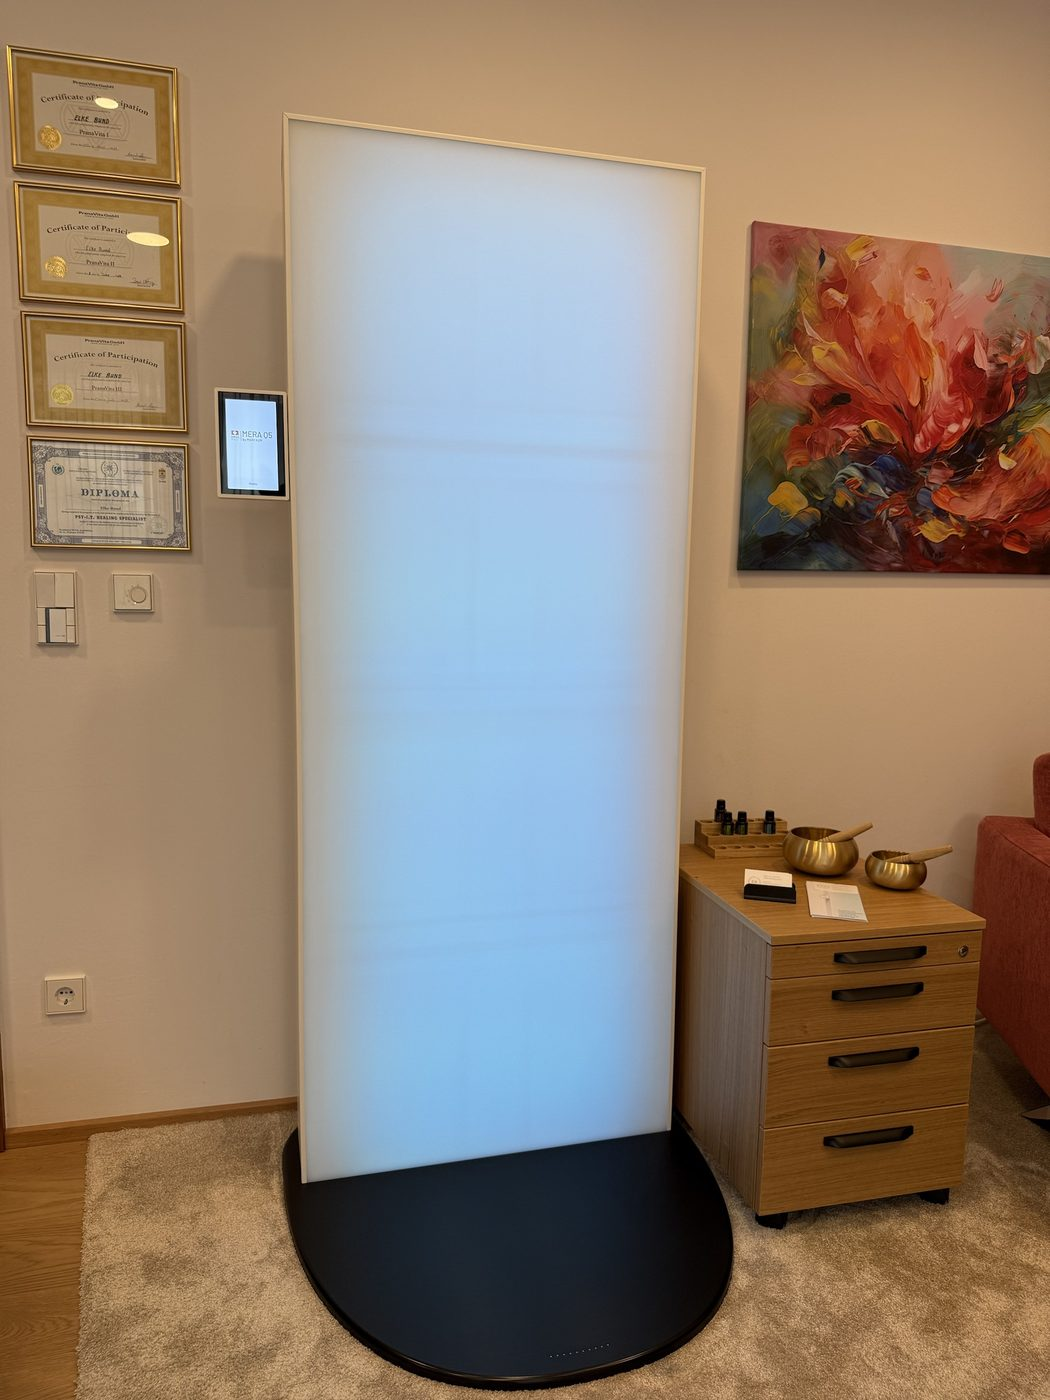
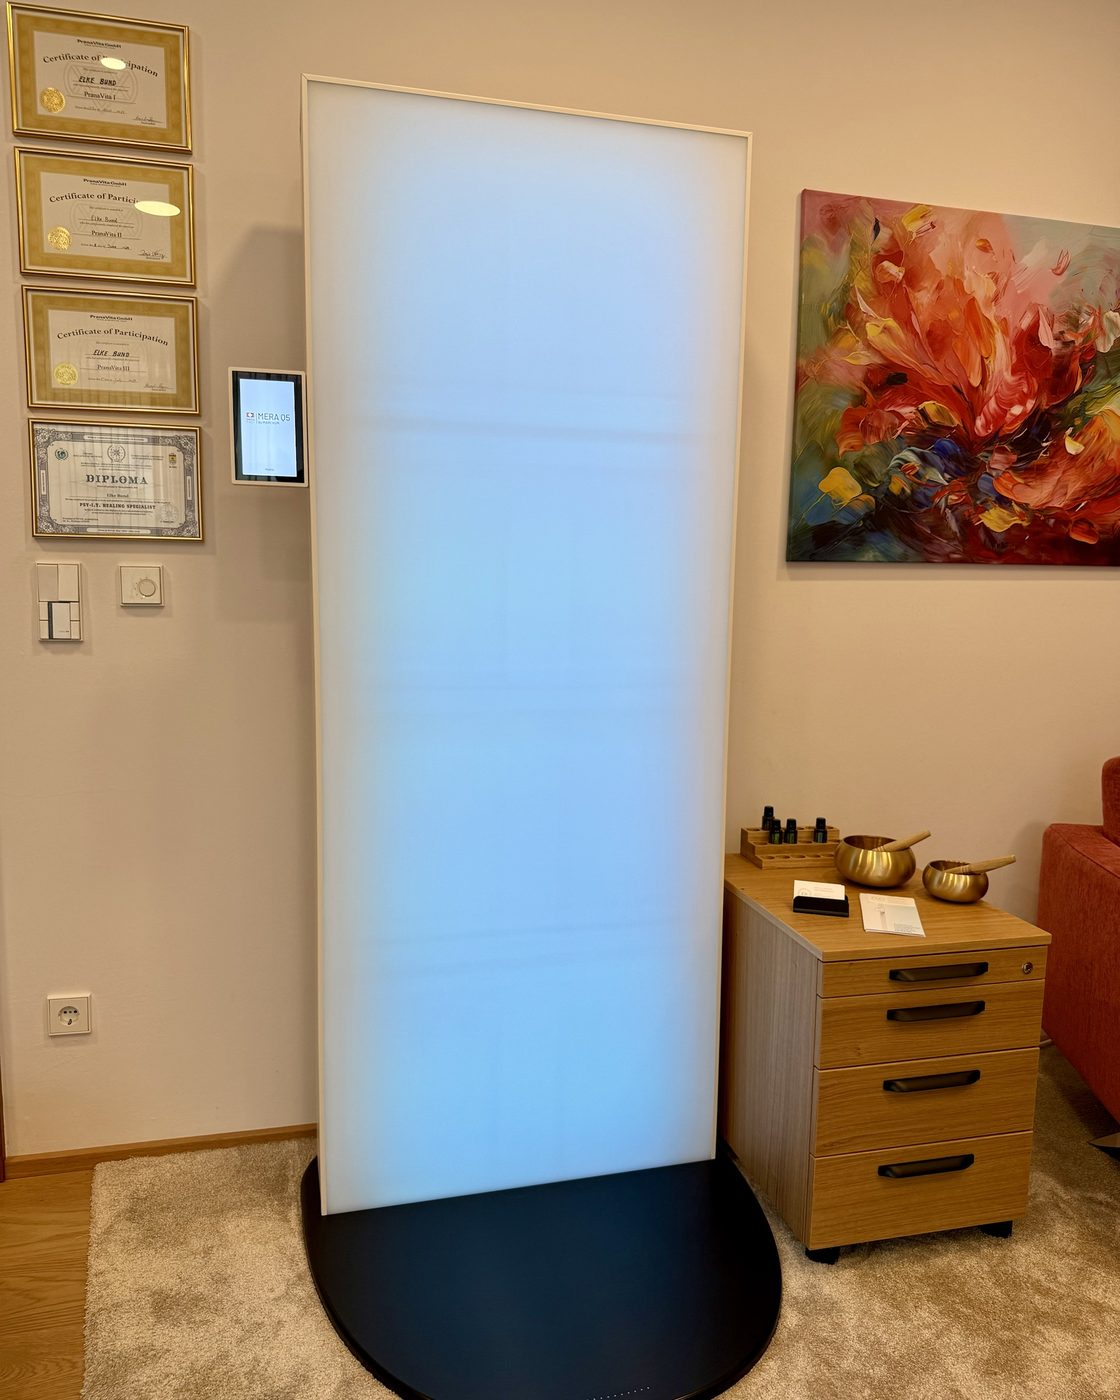
Switch device photo frame to 4:5, update with new crop
The 1:1 square crop was cutting off too much of the tall device.
Changed .device-frame to 4:5 and swapped in the newly provided
photo, which already frames the device well at that ratio (shows
the full panel plus the certificates on the wall for context).

Claude-Session: https://claude.ai/code/session_01PmmUWQhYY4aogbm5Fb4Ri4

diff --git a/index.html b/index.html
@@ -104,7 +104,7 @@
     <div class="container split reverse">
       <div class="split-media">
         <div class="img-frame device-frame">
-          <img src="assets/images/device.jpg" alt="Die MERA Q5 im Praxisraum" width="1050" height="1400" loading="lazy">
+          <img src="assets/images/device.jpg" alt="Die MERA Q5 im Praxisraum" width="1120" height="1400" loading="lazy">
         </div>
       </div>
       <div class="split-text">

diff --git a/css/style.css b/css/style.css
@@ -455,7 +455,7 @@ h2.section-title {
 }
 
 .device-frame {
-  aspect-ratio: 1 / 1;
+  aspect-ratio: 4 / 5;
   max-width: 460px;
   margin: 0 auto;
 }
